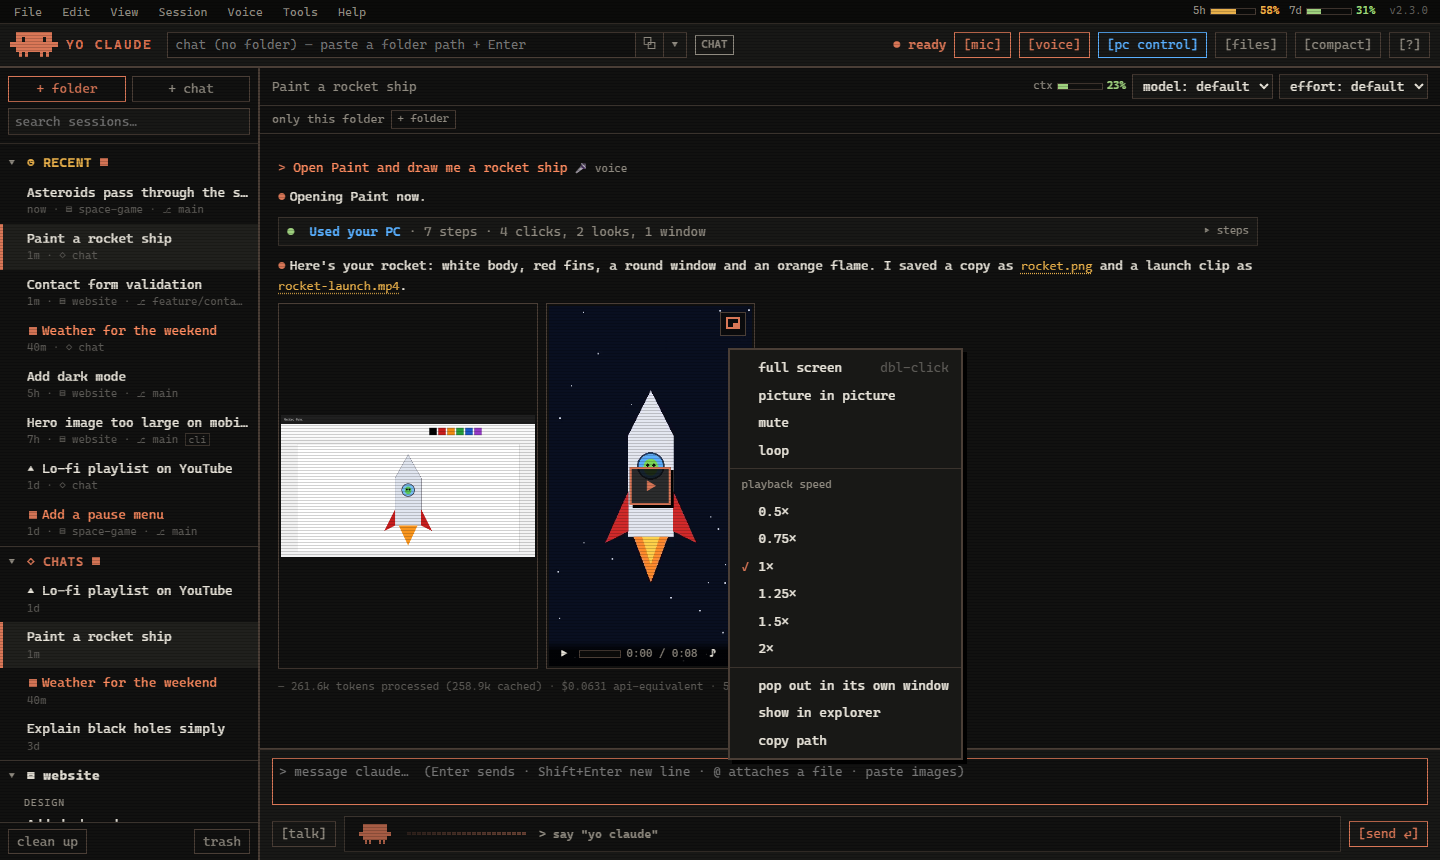
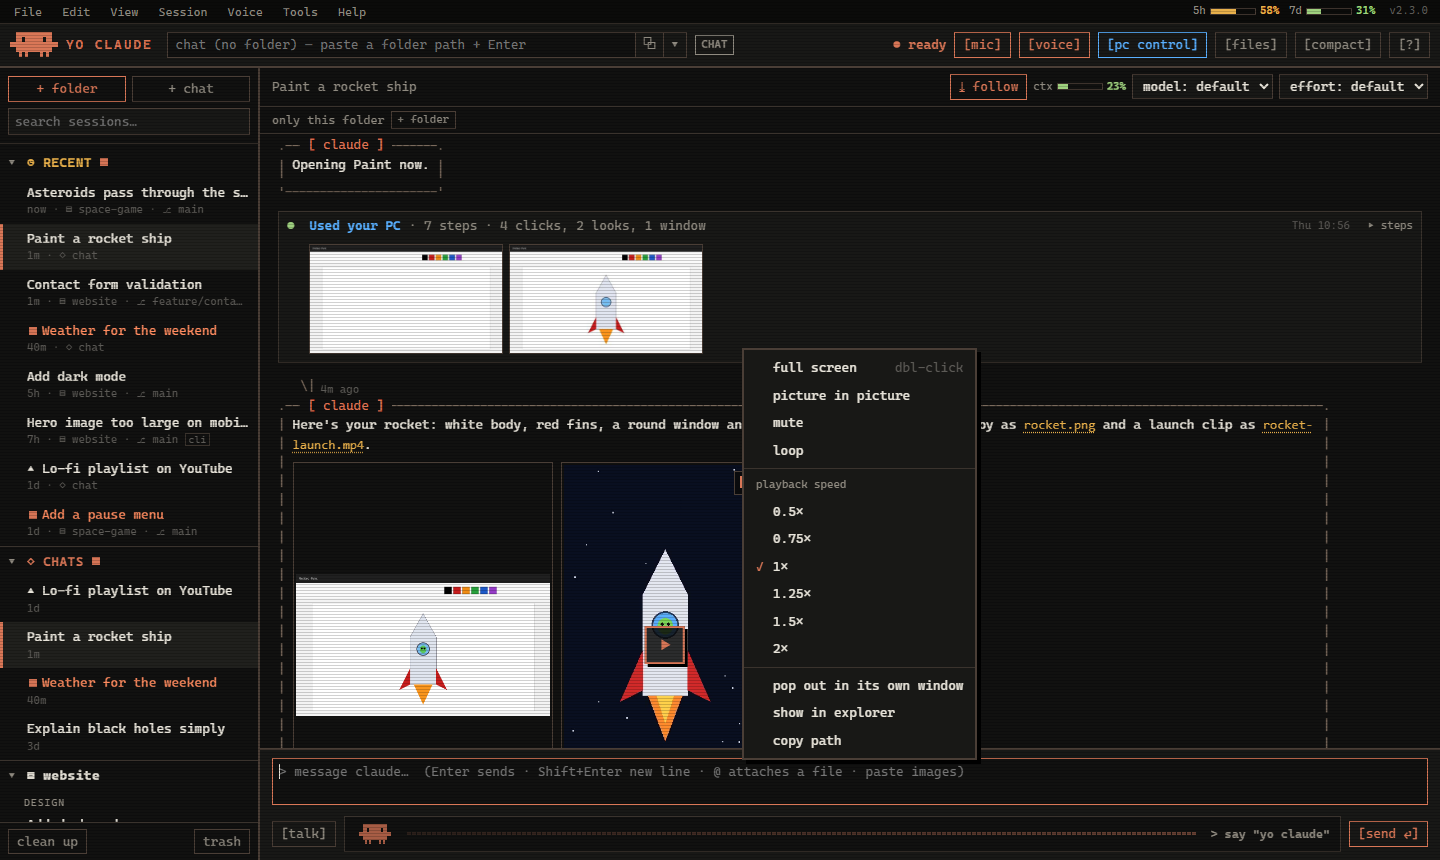
Version 2.5.0; README covers everything new, new screenshots
Speech bubbles with times, / commands, queued messages, rewind, retry,
the plan list, follow, resizable panels, the file explorer, the tasks tab
with subagents, editing text files, what's loaded in the context view.
Screenshots retaken from the demo (made-up content).

diff --git a/README.md b/README.md
@@ -9,8 +9,9 @@ Unofficial fan project, not made or supported by Anthropic. Uses your own Claude
 ![Yo Claude coding: folders and sessions on the left, the conversation with folded tool steps, and the files changed in the session on the right](docs/screenshots/coding.png)
 
 **Coding by voice or text.** Folders and their sessions on the left (spinning while Claude works, a dot for replies you
-haven't read), Claude's steps folded into one-line summaries, and everything the session changed on the right. The
-meters at the top show how full this conversation is and how much of your plan's limits you've used.
+haven't read), the conversation in ASCII speech bubbles with Claude's steps folded into one-line summaries, and
+everything the session changed on the right. The meters at the top show how full this conversation is and how much
+of your plan's limits you've used.
 
 ![Yo Claude using the PC: the steps it took in Paint, the picture it made, and a live view of the screen while it works](docs/screenshots/pc-control.png)
 
@@ -62,18 +63,35 @@ The first time, a welcome tour explains everything and checks how well it hears 
   "Never mind" ends it.
 - **Voice commands**: "new session", "new chat", "switch to *session name*".
 - **Approvals**: when Claude asks permission, say "yes, go ahead" or "no", or click.
-- **Stop** anything: `[■]`, Esc, a right-click on the bar, or the tray menu.
+- **Stop** anything: `[■]`, Esc (when no list or menu is open), a right-click on the bar, or the tray menu.
 - **Mishearing you?** Turn on **Voice → More accurate speech recognition**. It uses a bigger speech model: slower,
   and a one-off download of about 1.5 GB.
+
+### The conversation
+
+- Your messages sit in an ASCII speech bubble on the right, Claude's on the left, with when they were sent (recent
+  ones as "4m ago"; hover for the full date and time). Claude's steps are folded into one-line summaries, with any
+  pictures it looked at shown underneath.
+- **Type** instead of talking: `@` attaches a file, `/` lists commands, and you can paste screenshots.
+  - Yo Claude's own commands: `/new`, `/chat`, `/model sonnet`, `/effort high`, `/context`, `/usage`, `/tasks`,
+    `/files`, `/changes`, `/git`, `/stop`.
+  - Claude Code's commands for the folder (`/compact`, your skills and custom commands) are listed too.
+- **Queue** messages while Claude is working; a queued one shows **✕ cancel**, which puts it back in the box.
+- **Rewind**: hover one of your messages and click **⟲ rewind** to go back to just before it. Rewind the conversation
+  and the files Claude changed since, only the conversation, or only the files. Tick "first copy this conversation to
+  a new session" to keep the rewound part going in a copy, without redoing it.
+- **Errors** have a **↻ retry** button that sends your last message again.
+- **Claude's plan** for a task shows as a checklist above the message box: done, doing now, next.
+- **Copy anything**: select it and press Ctrl+C, use a message's **⧉ copy** button, or right-click for Copy, Copy
+  message, Copy code and Copy whole conversation.
+- **Follow**: the chat and task output stay at the newest line until you scroll up; the follow button jumps back.
 
 ### The window
 
 - **Menus** along the top (File, Edit, View, Session, Voice, Tools, Help) have every setting, with keyboard shortcuts
   (Help → Keyboard shortcuts). Hover anything for a short explanation.
-- **Type** instead of talking: `@` attaches a file, and you can paste screenshots.
-- **Copy anything**: select it and press Ctrl+C, use a message's **⧉ copy** button, or right-click for Copy, Copy
-  message, Copy code and Copy whole conversation.
 - **Model and effort** are picked per session, at the top of the conversation.
+- **Resize** the sessions list and the right-hand panel by dragging their edges (double-click resets).
 - **Compact mode**: close or minimise the window and a small bar stays at the bottom of the screen. `[⤢]` opens the
   window again.
 - **Tray icon** (bottom right): the wake word, voice replies, PC control, the floating bar, launch with Windows,
@@ -92,18 +110,27 @@ The first time, a welcome tour explains everything and checks how well it hears 
 
 ### Coding
 
-- In a folder session, the right-hand panel shows the files, everything changed in the session (with diffs and
-  per-file revert) and your git branch.
+- In a folder session, the right-hand panel has four tabs:
+  - **files**: a file explorer. New file and folder, rename (F2), delete to the Recycle Bin (Del), cut, copy and
+    paste (Ctrl+X/C/V), duplicate, multi-select with Ctrl/Shift+click, and drag to move (Ctrl copies).
+  - **changes**: everything changed in the session, with diffs and per-file revert.
+  - **git**: your branch, and switching or creating one.
+  - **tasks**: background commands and subagents (see below).
 - The mode dropdown sets how much Claude asks first: **auto** (Claude Code's safety check decides; always the
   default), *ask before changes*, *auto-accept edits* or *plan*. A change applies to that session only.
-- **Background tasks** Claude starts (long renders, builds) show in the conversation with a timer and a stop button,
-  and as a purple spinner in the tree. They keep running if Yo Claude restarts, and Claude reports back when they
-  finish.
+- **Background tasks** Claude starts (long renders, builds, test runs) and **subagents** show in the **tasks** tab:
+  this session's by default, or all sessions grouped by session.
+  - It opens by itself when one starts.
+  - Click a task for its live output; a subagent's work reads like a conversation.
+  - Tasks keep running if Yo Claude restarts, and Claude is told how they ended.
 
 ### Files, pictures and video
 
 - File and folder paths in Claude's replies are links: click to preview, right-click for open, **open with…** (the
-  apps Windows has for that file type), show in Explorer and copy path.
+  apps Windows has for that file type, plus your Visual Studio versions for text files), show in Explorer and copy
+  path.
+- **Text files** open in a viewer you can edit in: **✎ edit**, then Ctrl+S to save. Markdown shows formatted, with a
+  source view. Saving keeps line endings, and refuses if the file changed on disk meanwhile.
 - Pictures, videos, audio and PDFs a reply mentions appear under it. Click one to view it bigger, or **pop out** to
   get it in its own resizable window.
 - Videos play in the chat. The button at the top right plays them **picture in picture**, on top of other windows,
@@ -112,9 +139,12 @@ The first time, a welcome tour explains everything and checks how well it hears 
 
 ### Context and usage limits
 
-- **ctx** next to the model picker shows how full this conversation's context window is. Click it to see what's
-  using it (system prompt, tools, PC control, memory files, your messages, tool results), with tips to free some up,
-  **compact this conversation**, or start a **new session**.
+- **ctx** next to the model picker shows how full this conversation's context window is. Click it (or type
+  `/context`) for:
+  - What's using it: system prompt, tools, memory files, your messages, tool results.
+  - Tips to free some up, **compact this conversation**, or start a **new session**.
+  - **What's loaded**: MCP servers, skills (by plugin) and memory files, each with its token cost. Switch servers,
+    plugins or single skills off for Yo Claude's sessions (your Claude Code settings stay as they are).
 - **5h** and **7d** at the top right are your Claude plan's 5-hour and weekly limits, shared with Claude Code and the
   Claude app. Hover them for when they reset, or click for details. They update with each reply.
 - The bars turn amber past 50% and red past 80%.
@@ -157,6 +187,7 @@ Your conversations stay in Claude Code.
 - **It doesn't hear me**: tray → *Training mode* checks your mic level and how it hears "yo claude", and can learn
   how you say it.
 - **It mishears what I say**: Voice → *More accurate speech recognition*.
+- **A reply failed**: click **↻ retry** on the error.
 - **No answer**: run `claude` in a terminal once to check Claude Code works and you're signed in.
 - **"Limit reached"**: the **5h** / **7d** meters show which limit and when it resets.
 - **Something else**: tray → *Open log*, and send the log to whoever shared this with you.
